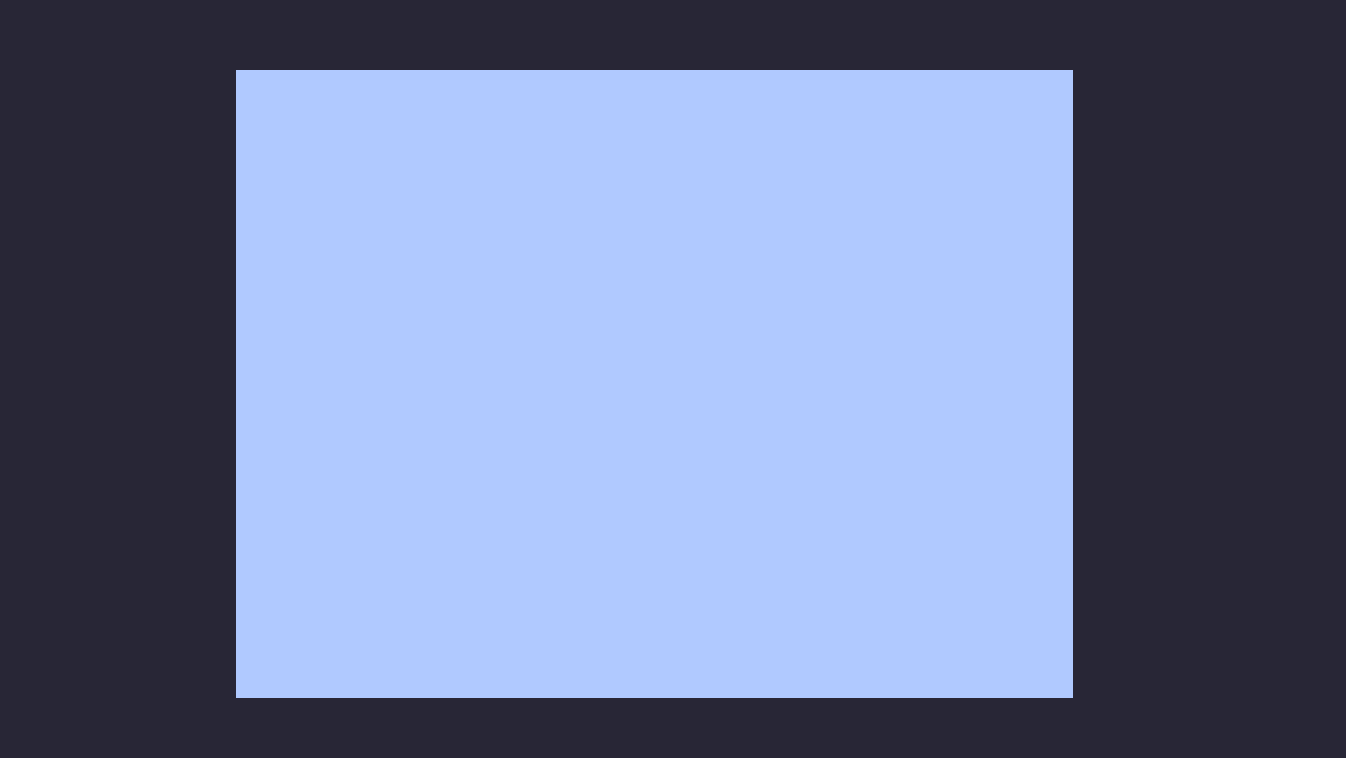
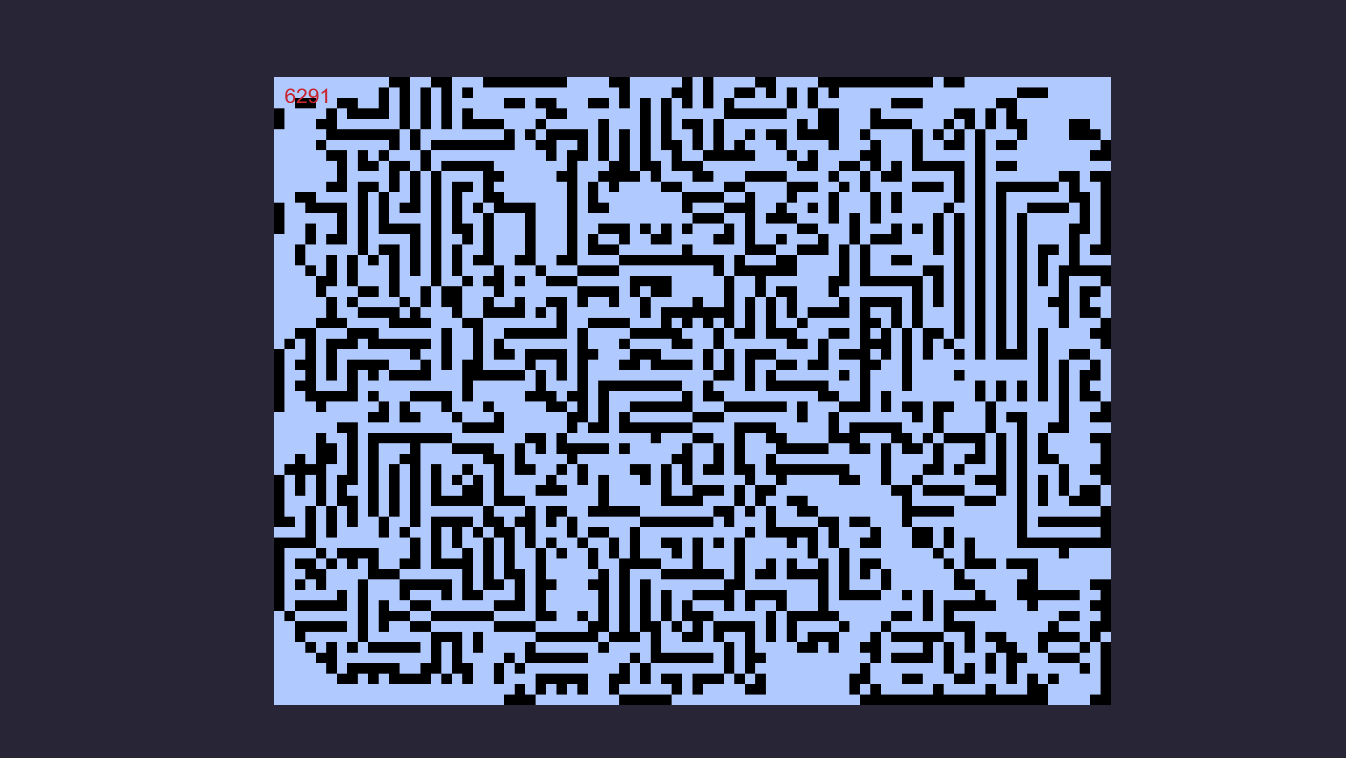
screenshot

Changed region(s): [[0.156, 0.091, 0.8425, 0.9406]]

diff --git a/js/consts.js b/js/consts.js
@@ -10,4 +10,5 @@ const	CELL_LENGTH			= 10;
 
 const	BACKGROUND_COLOR	= "#AACCFF";
 const	CELLS_COLOR 		= 0;
+
 const	TXT_STEP_COLOR		= "#D72323";

diff --git a/README.md b/README.md
@@ -3,4 +3,4 @@ My version of Conway's Game of Life.
 
 ![](img/game-of-life-screen.png)
 
-(16/06/2018 : 07h32)
+(16/06/2018 : 11h10)
